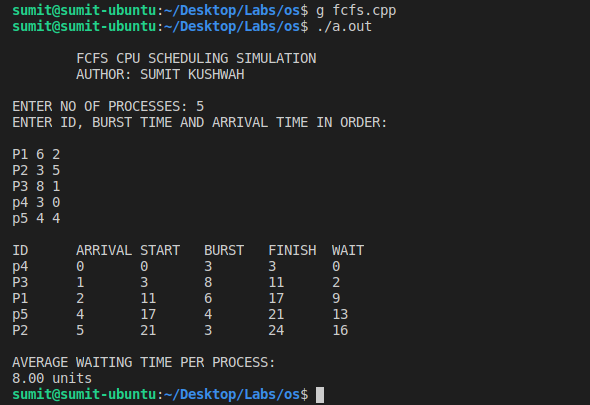
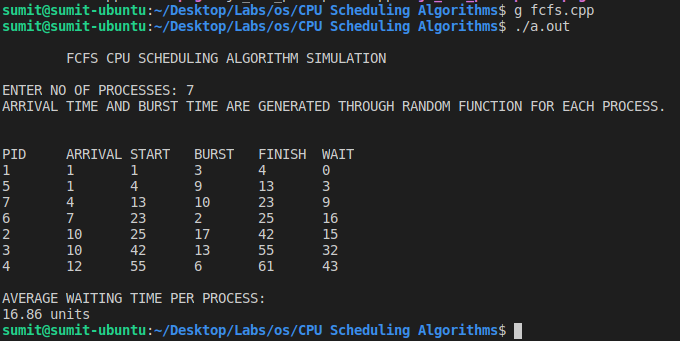
fcfs and sjf non-preemptive implemented

diff --git a/os/CPU Scheduling Algorithms/sjf_non_preemptive.cpp b/os/CPU Scheduling Algorithms/sjf_non_preemptive.cpp
@@ -25,25 +25,14 @@ void about()
 {
     cout << endl;
     cout << "\t"
-         << "SJF NON PREEMPTIVE CPU SCHEDULING SIMULATION" << endl;
-    cout << "\t"
-         << "AUTHOR: SUMIT KUSHWAH" << endl;
+         << "SJF NON PREEMPTIVE CPU SCHEDULING ALGORITHM SIMULATION" << endl;
     cout << endl;
 }
 
 void PrintProcessData(Process process)
 {
-    cout << process.id
-         << "\t"
-         << process.arrival_time
-         << "\t"
-         << process.start_time
-         << "\t"
-         << process.burst_time
-         << "\t"
-         << process.finish_time
-         << "\t"
-         << process.wait_time << endl;
+    cout << process.id << "\t" << process.arrival_time << "\t" << process.start_time << "\t" 
+    << process.burst_time << "\t" << process.finish_time << "\t" << process.wait_time << endl;
 }
 
 int main()
@@ -59,10 +48,9 @@ int main()
 
     for (int i = 0; i < pcount; i++)
     {
-        int id;
-        int burst_time;
-        int arrival_time;
-        cin >> id >> burst_time >> arrival_time;
+        int id = i + 1;
+        int burst_time = rand() % 20;
+        int arrival_time = rand() % 15;
         processes[i].id = id;
         processes[i].arrival_time = arrival_time;
         processes[i].burst_time = burst_time;
@@ -70,17 +58,8 @@ int main()
     sort(processes, processes + pcount, compare);
 
     cout << endl;
-    cout << "ID"
-         << "\t"
-         << "ARRIVAL"
-         << "\t"
-         << "START"
-         << "\t"
-         << "BURST"
-         << "\t"
-         << "FINISH"
-         << "\t"
-         << "WAIT" << endl;
+    cout << "ID" << "\t" << "ARRIVAL" << "\t" << "START" << "\t"
+         << "BURST" << "\t" << "FINISH" << "\t" << "WAIT" << endl;
 
     processes[0].start_time = processes[0].arrival_time;
     processes[0].finish_time = processes[0].start_time + processes[0].burst_time;

diff --git a/os/CPU Scheduling Algorithms/fcfs.cpp b/os/CPU Scheduling Algorithms/fcfs.cpp
@@ -19,10 +19,7 @@ bool compare(Process x, Process y)
 void about()
 {
     cout << endl;
-    cout << "\t"
-         << "FCFS CPU SCHEDULING SIMULATION" << endl;
-    cout << "\t"
-         << "AUTHOR: SUMIT KUSHWAH" << endl;
+    cout << "\t" << "FCFS CPU SCHEDULING ALGORITHM SIMULATION" << endl;
     cout << endl;
 }
 
@@ -46,8 +43,8 @@ int main()
     for (int i = 0; i < pcount; i++)
     {
         int id = i + 1;
-        int burst_time = rand() % 16;
-        int arrival_time = rand() % 10;
+        int burst_time = rand() % 20;
+        int arrival_time = rand() % 15;
         processes[i].id = id;
         processes[i].arrival_time = arrival_time;
         processes[i].burst_time = burst_time;
